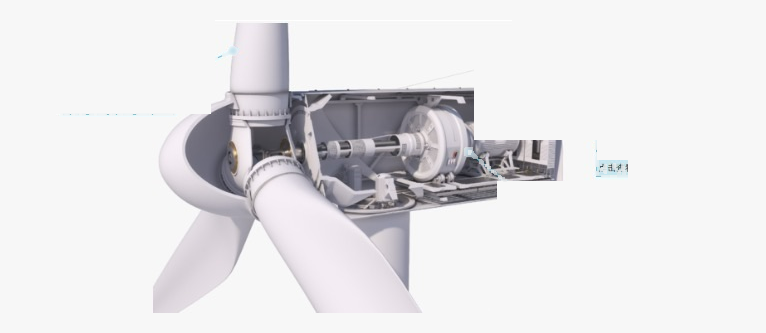
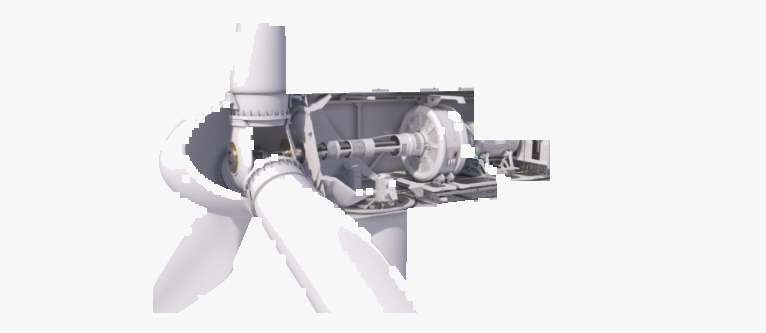
Remove residual blue cutout ghosts from the wind cutaway image.

diff --git a/index.html b/index.html
@@ -834,7 +834,7 @@ body.map-demo-hide-shell-topbar .shell .main > .topbar{display:none !important;}
     /* 必须为 true：Blob URL 的 iframe 与 file:// 父页不同源，子页无法可靠调用 parent.__demoOpenPage / postMessage，蓝框子功能会全部失效。srcdoc 与父页同源，侧栏跳转才能工作。 */
     var demoUseSrcdocOnly = true;
     var demoLoadingSafetyTimer = null;
-    var demoPageVersion = "20260723-rm-wh-legend-v82";
+    var demoPageVersion = "20260723-wind-clean-v83";
 
     function demoAppendVersionBeforeHash(href) {
       if (!href) return href;

diff --git a/prod-spare-inventory-scheme2.html b/prod-spare-inventory-scheme2.html
@@ -1,5 +1,5 @@
 <!DOCTYPE html>
-<html lang="zh-CN" data-build="20260723-wind-img-v80">
+<html lang="zh-CN" data-build="20260723-wind-clean-v83">
 <head>
   <meta charset="UTF-8" />
   <meta name="viewport" content="width=device-width, initial-scale=1.0" />